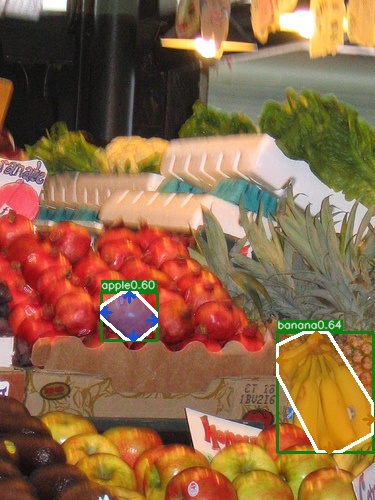
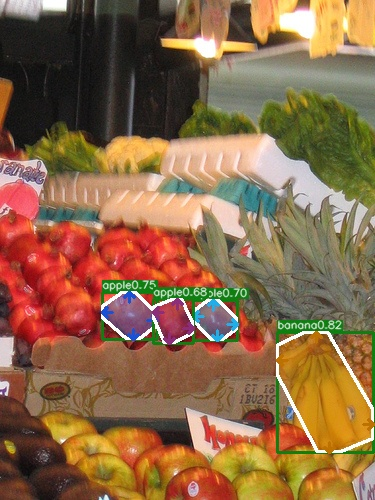
improved _h_aggregate

diff --git a/models/py_utils/exkp.py b/models/py_utils/exkp.py
@@ -314,11 +314,12 @@ class exkp(nn.Module):
 
             
            
-            # if aggr_weight > 0:
-            #     t_heat = _h_aggregate(t_heat, aggr_weight=aggr_weight)
-            #     l_heat = _v_aggregate(l_heat, aggr_weight=aggr_weight)
-            #     b_heat = _h_aggregate(b_heat, aggr_weight=aggr_weight)
-            #     r_heat = _v_aggregate(r_heat, aggr_weight=aggr_weight)
+            if aggr_weight > 0:#check 000000500043_out.jpg to see differences
+                t_heat = -torch.log(1/_h_aggregate(torch.sigmoid(t_heat), aggr_weight=aggr_weight)-1)
+                l_heat = -torch.log(1/_v_aggregate(torch.sigmoid(l_heat), aggr_weight=aggr_weight)-1)
+                b_heat = -torch.log(1/_h_aggregate(torch.sigmoid(b_heat), aggr_weight=aggr_weight)-1)
+                r_heat = -torch.log(1/_v_aggregate(torch.sigmoid(r_heat), aggr_weight=aggr_weight)-1)
+            
             
             #yezheng: I can do not have to do nms, but anyway, I cannot do nms before sigmoid
             # perform nms on heatmaps
@@ -332,13 +333,29 @@ class exkp(nn.Module):
             # b_heat[b_heat > 1] = 1
             # r_heat[r_heat > 1] = 1
 
-
+            # these two does not have much difference
             t_heat,  t_clses, t_ys, t_xs = _topk_heats_clses_ys_xs(t_heat, K=K)
             l_heat,  l_clses, l_ys, l_xs = _topk_heats_clses_ys_xs(l_heat, K=K)
             b_heat,  b_clses, b_ys, b_xs = _topk_heats_clses_ys_xs(b_heat, K=K)
             r_heat,  r_clses, r_ys, r_xs = _topk_heats_clses_ys_xs(r_heat, K=K)
-
+            # t_heat, t_inds, t_clses, t_ys, t_xs = _topk(t_heat, K=K)
+            # l_heat, l_inds, l_clses, l_ys, l_xs = _topk(l_heat, K=K)
+            # b_heat, b_inds, b_clses, b_ys, b_xs = _topk(b_heat, K=K)
+            # r_heat, r_inds, r_clses, r_ys, r_xs = _topk(r_heat, K=K)
             
+
+            t_scores = torch.sigmoid(t_heat)
+            l_scores = torch.sigmoid(l_heat)
+            b_scores = torch.sigmoid(b_heat)
+            r_scores = torch.sigmoid(r_heat)
+            ct_scores = torch.sigmoid(ct_heat)
+            
+
+            del t_heat
+            del l_heat
+            del b_heat
+            del r_heat
+            del ct_heat
 
 
             t_ys = t_ys.view(batch, K, 1, 1, 1).expand(batch, K, K, K, K)
